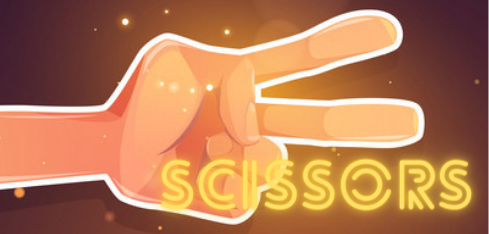
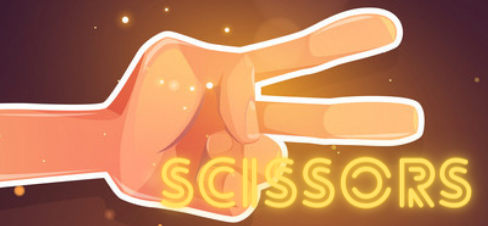
Resize images and change stylig to fit three images in a row

diff --git a/BoredtopiaApp/Boredtopia/wwwroot/css/site.css b/BoredtopiaApp/Boredtopia/wwwroot/css/site.css
@@ -34,13 +34,43 @@ logo {
     padding: 2rem 0;
 }
 
-/*  --- Wordtopia styles --- */
 
+
+/*  --- Rock, paper, scissor Styles ---  */
+.game-choice {
+    cursor: pointer;
+}
+
+.rockpaperscissors-game-board {
+    display: flex;
+    align-items: center;
+}
+
+.game-stats {
+    max-width: 300px;
+    margin: 0 auto;
+    display: flex;
+    flex-direction: column;
+}
+
+#result {
+    align-self: center;
+    padding-top: 1rem;
+    font-size: 1.5rem;
+}
+
+#wins {
+    margin: 0;
+    font-weight: 700;
+}
+
+
+/*  --- Wordtopia styles --- */
 .game-board {
     display: flex;
     flex-direction: column;
     flex-wrap: wrap;
-    align-content: center;
+    align-items: center;
 }
 
 .board-row {
